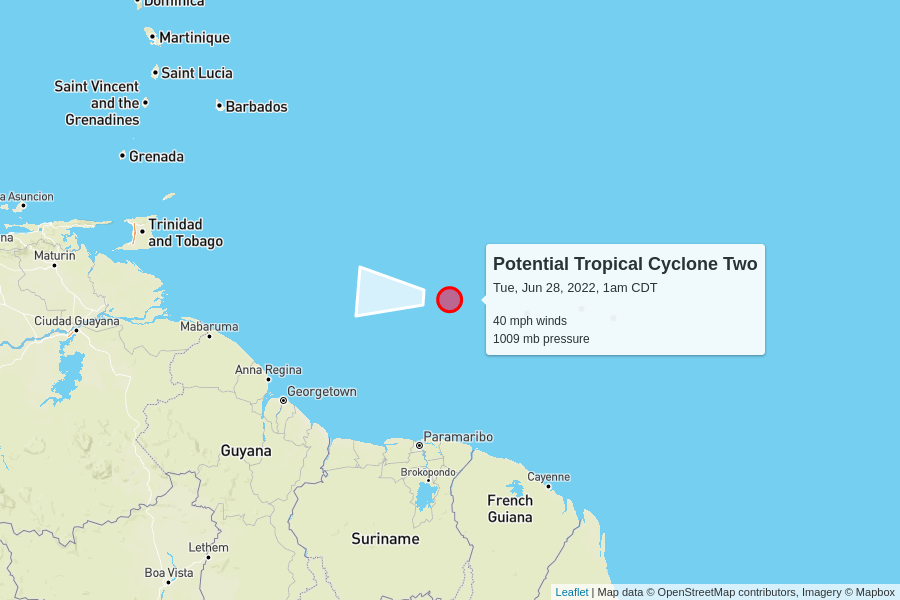
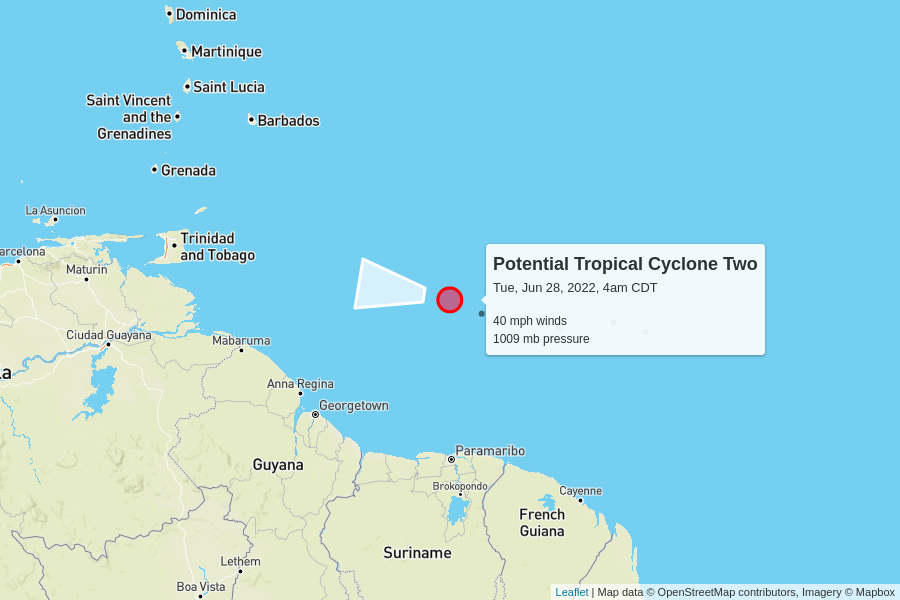
automatic update

diff --git a/docs/index.html b/docs/index.html
@@ -100,7 +100,7 @@
         <td colspan="6" class="storm category-0" >
           <h2>
             Potential Tropical Cyclone Two
-            <p class="updated">last updated <span data-time>2022-06-28T06:00:00.000Z</span></p>
+            <p class="updated">last updated <span data-time>2022-06-28T09:00:00.000Z</span></p>
           </h2>
         </td>
       </tr>
@@ -118,9 +118,9 @@
         <td>40 mph</td>
         <td>1009 mb</td>
         <td>
-          20 mph to the west
+          23 mph to the west
           <br/>
-          <span style="display: inline-block; font-size: 1.5em; transform: rotate(275deg);">↑</span>
+          <span style="display: inline-block; font-size: 1.5em; transform: rotate(280deg);">↑</span>
         </td>
         <td><a href="https://raw.githubusercontent.com/mgwalker/atlantic-hurricanes/main/data/csv/AL022022.csv">AL022022.csv</a></td>
         <td><a href="https://www.nhc.noaa.gov/archive/2022/TWO.shtml?">NHC advisories</a></td>
